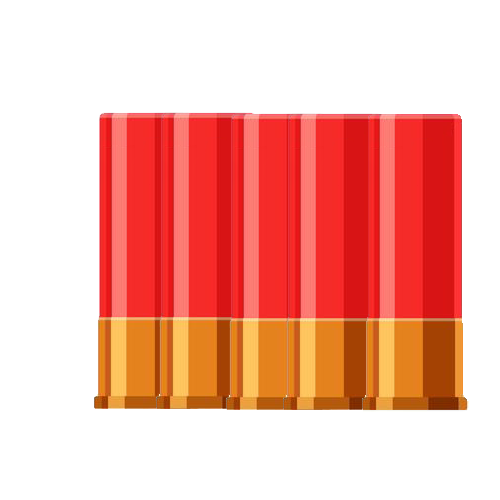
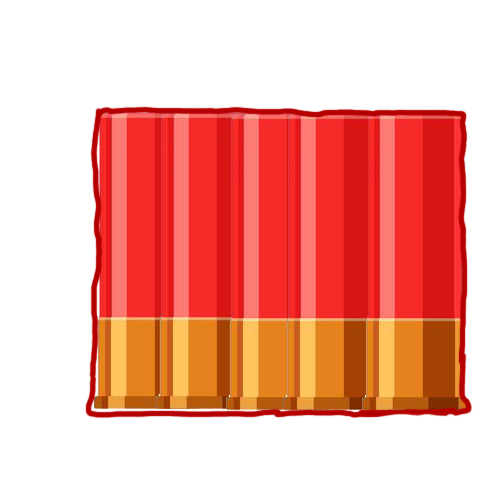
заставка, улудшение мултиплеера, исправлены ошибки

Changed region(s): [[0.15, 0.21, 0.96, 0.84]]

diff --git a/game.py b/game.py
@@ -1,8 +1,8 @@
 """ игра """
-import os
 import random
 from datetime import datetime
 from typing import Optional, NamedTuple, Tuple, Union
+import os
 
 import pygame
 from pygame import Surface
@@ -18,6 +18,9 @@ from hero import Hero
 from items import items_generator
 from map import Map
 from monster import Monster
+import time
+from text import Text
+
 
 CharacterHM = Union[Hero, Monster]
 
@@ -36,13 +39,13 @@ class Game:
      turn - Ход. За один ход, персонаж делает заданное количество действий.
      action - Действиею Переход на соседнюю клетку, атака.
      """
-    kb_mode: str = "map"  # keyboard mode, map/attack/backpack
+    kb_mode: str = "controls"  # keyboard mode, map/attack/backpack
     kb_locked: bool = False  # нажата любая кнопка
     # счётчики
     turns_counter: int = 0  # счётчик ходов
     rounds_counter: int = 0  # счетчик кругов
     monster_waves_counter: int = 0  # счетчик волн монстров
-    rounds_between_monster_wave: int = 5  # количество кругов между волнами монстров
+    rounds_between_monster_wave: int = 1  # количество кругов между волнами монстров
     is_world_motion = False  # происходит сдвиг игрового мира
     is_game_over = False
     world_shift = (0, 0)
@@ -66,6 +69,7 @@ class Game:
         self.dashboard = Dashboard(self)  # приборная панель
         self.backpack: Backpack = Backpack(self)  # рюкзак
         self.controls: Controls = Controls(self)  # help
+        self.monsters_killed = 0
 
     @staticmethod
     def _init_screen() -> Surface:
@@ -142,6 +146,7 @@ class Game:
         """ заставка перед игрой, карта появляется из темноты
          return True пока полностью не появится """
         # прозрачность
+
         time_delta = datetime.now() - self.start_time
         seconds = time_delta.seconds + time_delta.microseconds / 1000000
         alpha_max = (256 + 100)
@@ -159,11 +164,21 @@ class Game:
         # карта появляется из темноты
         screen_rect = self.screen.get_rect()
         surface = pygame.Surface(screen_rect.bottomright)
-        surface.set_alpha(alpha)
-        surface.fill(s.BLACK)
+        surface.set_alpha(alpha * 5)
+        surface.fill(s.BROUN)
         self.screen.blit(surface, screen_rect.topleft)
+        widht = min(self.screen.get_rect().size)
+        size = (widht, widht)
+        surface = pygame.image.load(s.I_ZASTAVKA).convert()
+        surface = pygame.transform.scale(surface, size)
+        rect = surface.get_rect()
+        rect.center = self.screen.get_rect().center
+        surface.set_alpha(alpha)
+        self.screen.blit(surface, rect.topleft)
+        # карта появилась
         if alpha <= 0:
             return False
+        # карта ещё не появилась
         return True
 
     def _start_turn(self):
@@ -539,7 +554,7 @@ class Game:
         raise ValueError("нет активного персонажа")
 
     def is_motion(self) -> bool:
-        """ True  - если хоть обин персонаж в движении
+        """ True  - если хоть один персонаж в движении
             False - если все персонажи закончили движение и стоят в своих клетках
         """
         if self.is_world_motion:
@@ -580,13 +595,13 @@ class Game:
             # если счётчик кругов кратен 5, то обновим счётчик волн-монстров
             if not self.rounds_counter % self.rounds_between_monster_wave:
                 self.monster_waves_counter += 1
-
                 # закончилась волн-монстров
                 return Counters(turn=True, round=True, wave=True)
             # закончился круг/round
             return Counters(turn=True, round=True, wave=False)
         # закончился ход/turn
         return Counters(turn=True, round=False, wave=False)
+
 
     def hero_actions(self) -> None:
         """ В зависимости от нажатой кнопки меняет управление клавиатуры
@@ -810,6 +825,13 @@ class Game:
         if not self.is_game_over:
             Channel(2).play(Sound(s.S_GAME_OVER))
             self.is_game_over = True
+
+    def win(self) -> None:
+
+        text = Text(self.screen)
+        text.size = 100
+        text.draw_list(['You win', f'you killed {self.monsters_killed} monsters'], 200, 400)
+        time.sleep(5)
 
     def update_sprites(self) -> None:
         """ обновим передвигающиеся спрайты на экране """

diff --git a/main_test.py b/main_test.py
@@ -1,17 +1,9 @@
 """ game zombie """
 import pygame
-# todo
-#  menu select players count
-
-# todo BUGS
-#  backpack image white space
 
 import functions as f
 import settings as s
 from game import Game
-import time
-
-
 
 FPS = 60
 pygame.init()
@@ -21,12 +13,11 @@ pygame.mixer.music.set_volume(0.5)
 pygame.mixer.music.play(loops=-1)
 
 clock = pygame.time.Clock()
-game = Game(map_="map", heroes=1, monsters=0, items=40)
+game = Game(map_="map", heroes=1, monsters=0, items=20)
 
-INTRO = True  # если INTRO = False, начинается игра
+INTRO = False  # если INTRO = False, начинается игра
 RUN = True  # если RUN = False, выходим из игры
 GAME_OVER = False  # если GAME_OVER = True, заставка GAME_OVER
-counters = game.update_counters()
 
 while INTRO:
     game.characters.update()
@@ -39,20 +30,18 @@ while INTRO:
     pygame.display.update()
     clock.tick(FPS)
 
-
 while RUN:
     # update
     game.update_sprites()
     if not game.is_motion():
         # обновляет счётчики, если у героя закончился действия, то ход переходит к следующему герою
         counters = game.update_counters()
-
         # добавляет монстров каждую волну
         if counters.wave:
+            pass
             game._init_monsters_wave()
         game.hero_actions()
         game.monster_actions()
-
 
     for event in pygame.event.get():
         if f.exit_game(event):
@@ -62,19 +51,11 @@ while RUN:
     if game.all_heroes_dead():
         GAME_OVER = True
 
-    if game.monster_waves_counter >= 30 and not game.monsters:
-        game.win()
-        RUN = False
-
     # отрисовка экрана
     game.draw()
     if GAME_OVER:
         game.game_over()
-
     pygame.display.update()
-    # counters = game.update_counters()
-    if counters.turn and game.get_active_character().type == 'hero':
-        time.sleep(1)
     clock.tick(FPS)
 
 pygame.quit()

diff --git a/settings.py b/settings.py
@@ -7,14 +7,17 @@ DEBUG = True
 DEBUG = False
 
 DASHBOARD_W = 300
-SCREEN_SIZE = (800 + DASHBOARD_W, 800)  # окно
+SCREEN_SIZE = (900 + DASHBOARD_W, 900)  # окно
 # SCREEN_SIZE = (0, 0)  # полноэкранный режим
 CELL_W = 100  # размер клетки
+if SCREEN_SIZE[1] > SCREEN_SIZE[0]:
+    SCREEN_SIZE = (SCREEN_SIZE[1], SCREEN_SIZE[1])
 
 SPEED = 10
 
 # цвета
 BLACK = (0, 0, 0)
+BROUN = (104, 50, 9)
 WHITE = (255, 255, 255)
 RED = (255, 0, 0)
 RED_DARK = (129, 18, 18)
@@ -43,14 +46,14 @@ I_MAP = {
     "map": os.path.join(IMAGES_DIR, "map.png"),
 }
 I_CELLS = [
-    os.path.join(IMAGES_DIR, f"map_cell_1.png"),
-    os.path.join(IMAGES_DIR, f"map_cell_2.png"),
-    os.path.join(IMAGES_DIR, f"map_cell_3.png"),
-    os.path.join(IMAGES_DIR, f"map_cell_4.png"),
-    os.path.join(IMAGES_DIR, f"map_cell_5.png"),
-    os.path.join(IMAGES_DIR, f"map_cell_6.png"),
+    os.path.join(IMAGES_DIR, "map_cell_1.png"),
+    os.path.join(IMAGES_DIR, "map_cell_2.png"),
+    os.path.join(IMAGES_DIR, "map_cell_3.png"),
+    os.path.join(IMAGES_DIR, "map_cell_4.png"),
+    os.path.join(IMAGES_DIR, "map_cell_5.png"),
+    os.path.join(IMAGES_DIR, "map_cell_6.png"),
 ]
-
+I_ZASTAVKA = os.path.join(IMAGES_DIR, "zastavka.png")
 # звуки
 SOUNDS_DIR = os.path.join(PROJECT_DIR, "sounds")
 S_BACKGROUND = os.path.join(SOUNDS_DIR, "background.wav")

diff --git a/character.py b/character.py
@@ -145,6 +145,8 @@ class Character(SpriteOnMap):
 
     def death(self) -> None:
         """ Персонаж умирает, удаляем из игры """
+        if self.type == 'monster':
+            self.game.monsters_killed += 1
         # удаляет героя с карты, вещи героя сбрасывает на карту
         cell = self.my_cell()
         cell.characters.remove(self)

diff --git a/text.py b/text.py
@@ -65,6 +65,6 @@ class Text:
             self.screen.blit(render, xy)
             box_w = max(box_w, text_rect.w)
             box_h = y_i + text_rect.h
-            print()
+
         box_rect = pygame.Rect((x, y), (box_w, box_h - y))
         return box_rect
